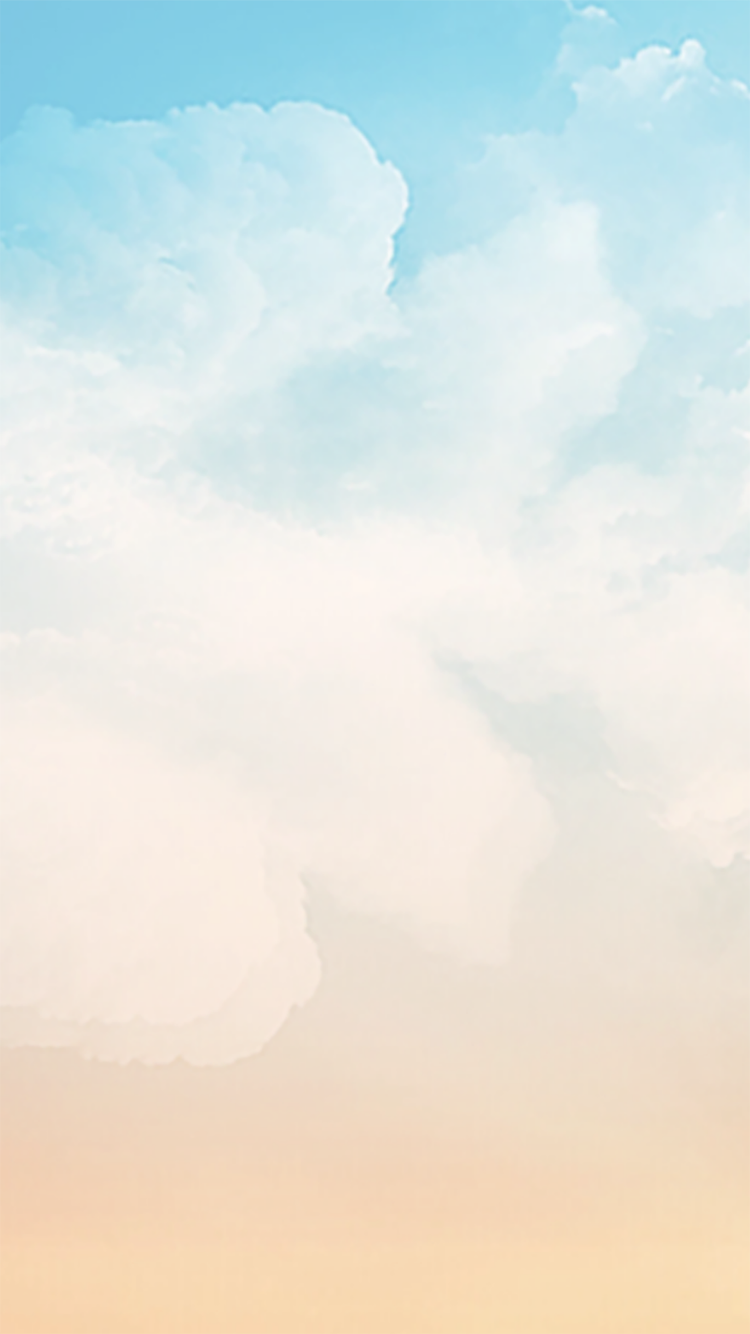
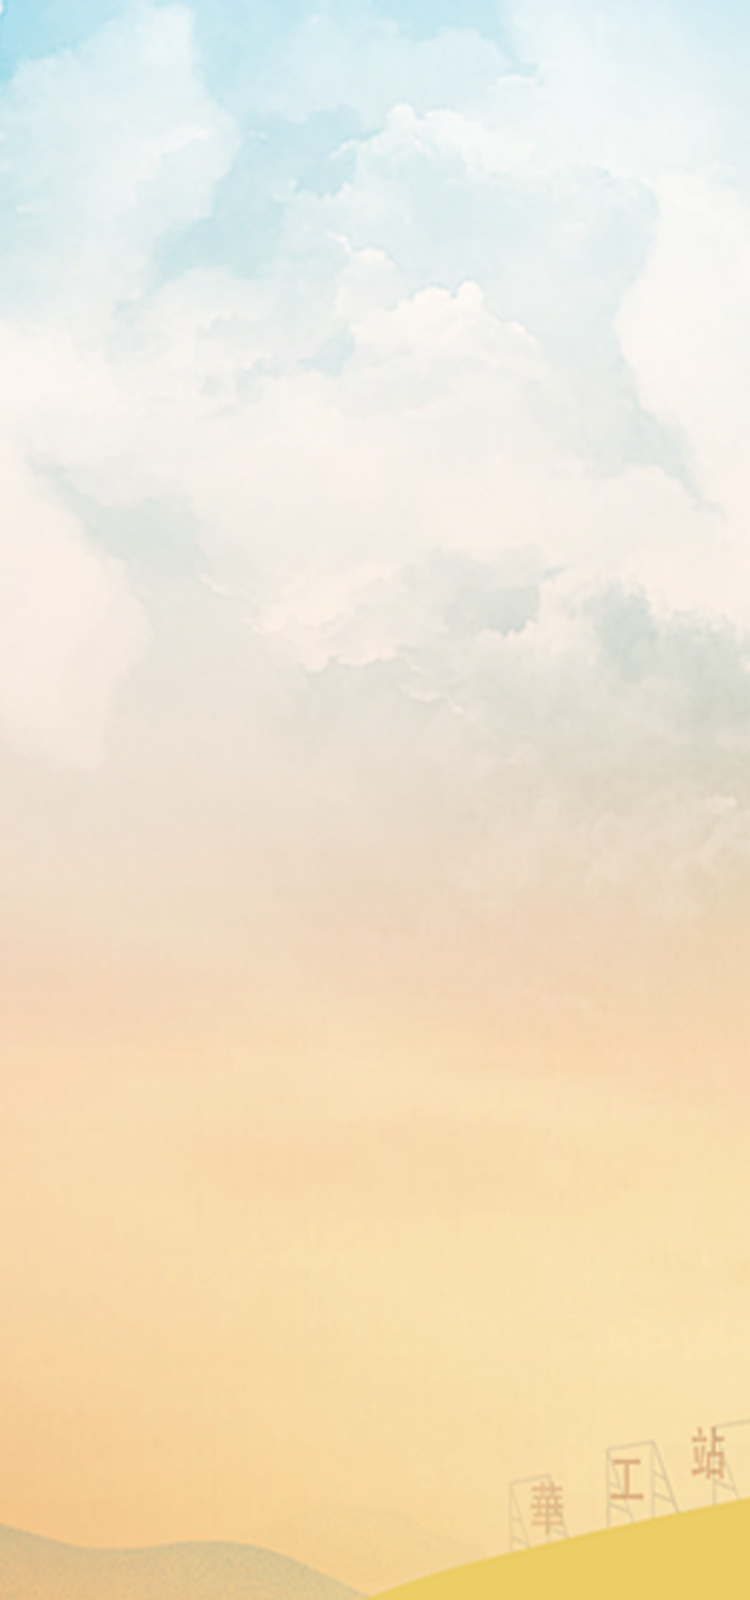
swtcl

diff --git a/Frontend/static/css/index.css b/Frontend/static/css/index.css
@@ -12,9 +12,10 @@
 }
 
 .background {
-    background-image: url("../pictures/7-1.png");
-    background-size: 100% 100%;
+    background-image: url("../pictures/3-1.png");
+    background-size: cover;
     background-repeat: no-repeat;
+    background-attachment: scroll;
 }
 
 .containerr {
@@ -53,19 +54,17 @@ input {
     padding-left: 4px;
 }
 
-.create-ticket {
+.create {
+    outline: none;
     height: 28.5px;
     width:  115px;
-    outline: none;
-}
-
-.create {
     background-color: #EA8C98;
     color: #EAEAEA;
     font-size: 15px;
     border-radius: 15px;
     margin:5% auto;
     flex: 0 0 28.5px;
+    margin-bottom: 10%;
 }
 
 .add {
@@ -79,6 +78,7 @@ input {
     background-image: url("../pictures/7-2.png");
     background-size: 100% 100%;
     background-repeat: no-repeat;
+    outline: none;
 }
 
 .reduce {
@@ -92,6 +92,7 @@ input {
     background-image: url("../pictures/7-3.png");
     background-size: 100% 100%;
     background-repeat: no-repeat;
+    outline: none;
 }
 .errmsg{
     height: 12px;

diff --git a/Frontend/static/js/portal.js b/Frontend/static/js/portal.js
@@ -1,9 +1,9 @@
 var img = new Image();
 img.src = "../static/pictures/1-1.png";
 img.onload = function(){
-    console.log("lllll")
-    $(".train-picture").css("display","block");
-    $(".train-picture").addClass("train-picture-move");
+    // console.log("lllll")
+    // $(".train-picture").css("display","block");
+    // $(".train-picture").addClass("train-picture-move");
 }
 $(function () {
     $("button").click(function () {

diff --git a/Frontend/static/js/api.js b/Frontend/static/js/api.js
@@ -1,4 +1,4 @@
-const host = " http://182.254.161.213/BBT-2019-Station/public/station"
+const host = " http://182.254.161.213/BBT-2019-Station/Backend/public/station"
 
 function ticket(way, data, fn) {
     $.ajax({
